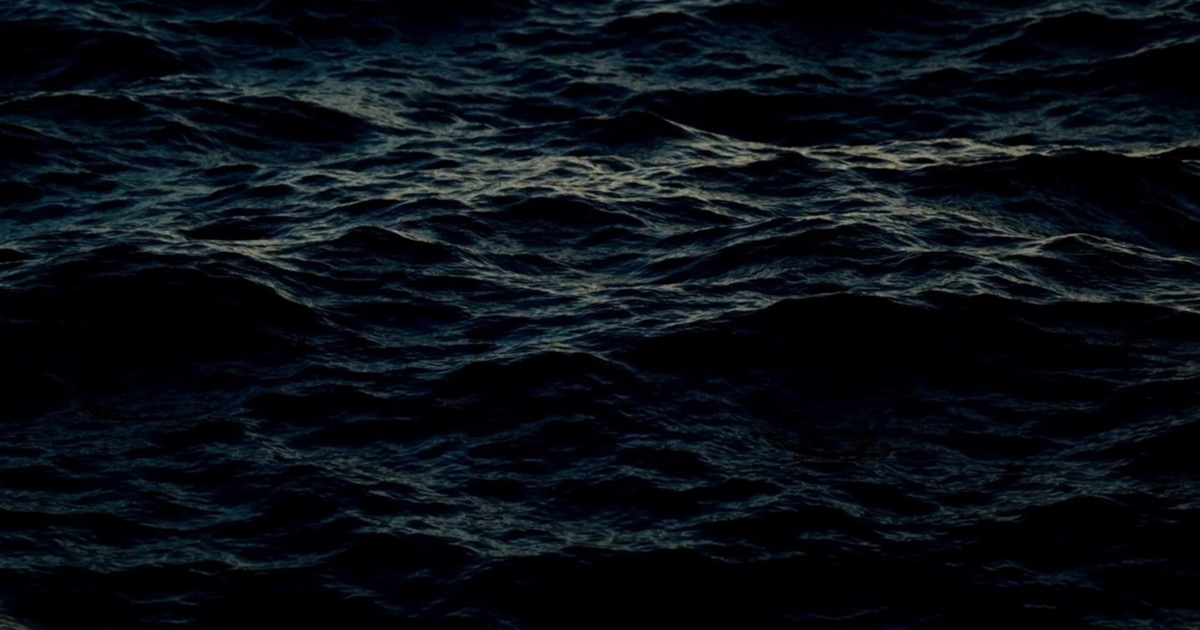
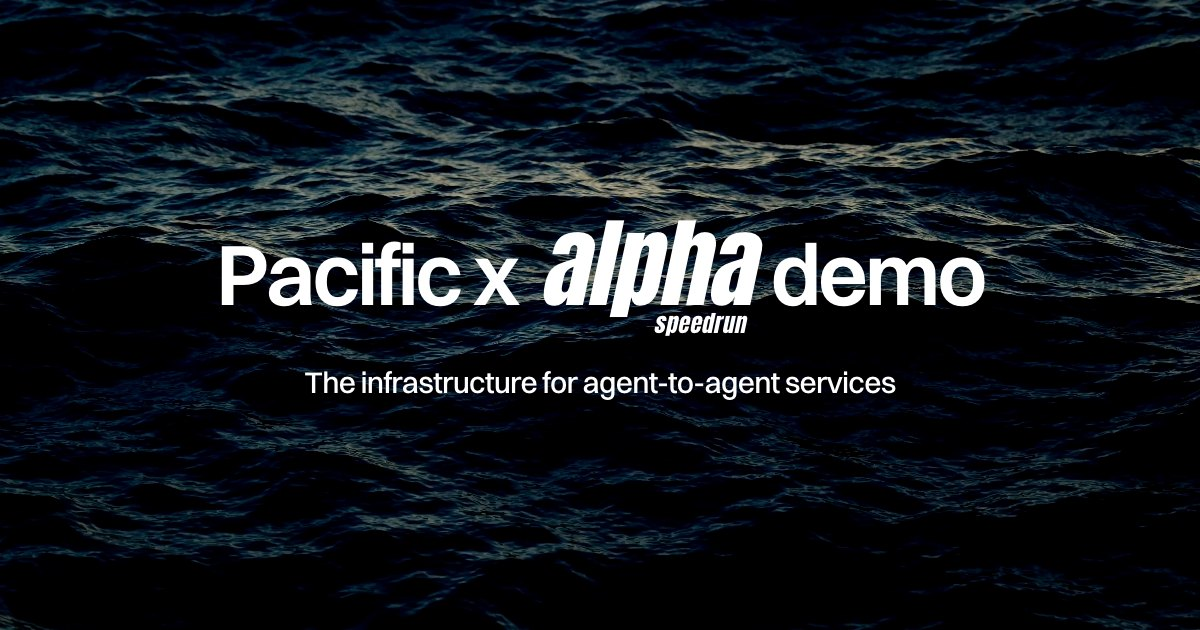
Use the hero's first screen as the link preview image
The share card now shows "Pacific x alpha speedrun demo" and the tagline over the
sea, rendered from the real hero at 1200x630 with the menu bar hidden. The preview
title matches the page title.

diff --git a/web/middleware.ts b/web/middleware.ts
@@ -23,15 +23,15 @@ function cookie(request: Request, name: string) {
   return undefined
 }
 
-/** The gate is all a link previewer ever sees, so it carries the page's share card: the sea, at an absolute URL. */
+/** The gate is all a link previewer ever sees, so it carries the page's share card: the hero's first screen, at an absolute URL. */
 function shareTags(origin: string) {
   return `<meta property="og:type" content="website" />
-<meta property="og:title" content="Pacific" />
+<meta property="og:title" content="Pacific x alpha speedrun demo" />
 <meta property="og:description" content="The infrastructure for agent-to-agent services" />
 <meta property="og:image" content="${origin}${SHARE_IMAGE}" />
 <meta property="og:image:width" content="1200" />
 <meta property="og:image:height" content="630" />
-<meta property="og:image:alt" content="Dark ocean swell at dusk" />
+<meta property="og:image:alt" content="Pacific x alpha speedrun demo, over a dark ocean swell" />
 <meta name="twitter:card" content="summary_large_image" />
 <meta name="twitter:image" content="${origin}${SHARE_IMAGE}" />`
 }

diff --git a/web/index.html b/web/index.html
@@ -11,7 +11,7 @@
     <meta property="og:image" content="/assets/pacific-share.jpg" />
     <meta property="og:image:width" content="1200" />
     <meta property="og:image:height" content="630" />
-    <meta property="og:image:alt" content="Dark ocean swell at dusk" />
+    <meta property="og:image:alt" content="Pacific x alpha speedrun demo, over a dark ocean swell" />
     <meta name="twitter:card" content="summary_large_image" />
     <link rel="icon" type="image/svg+xml" href="/favicon.svg" />
     <link rel="preconnect" href="https://api.fontshare.com" />
